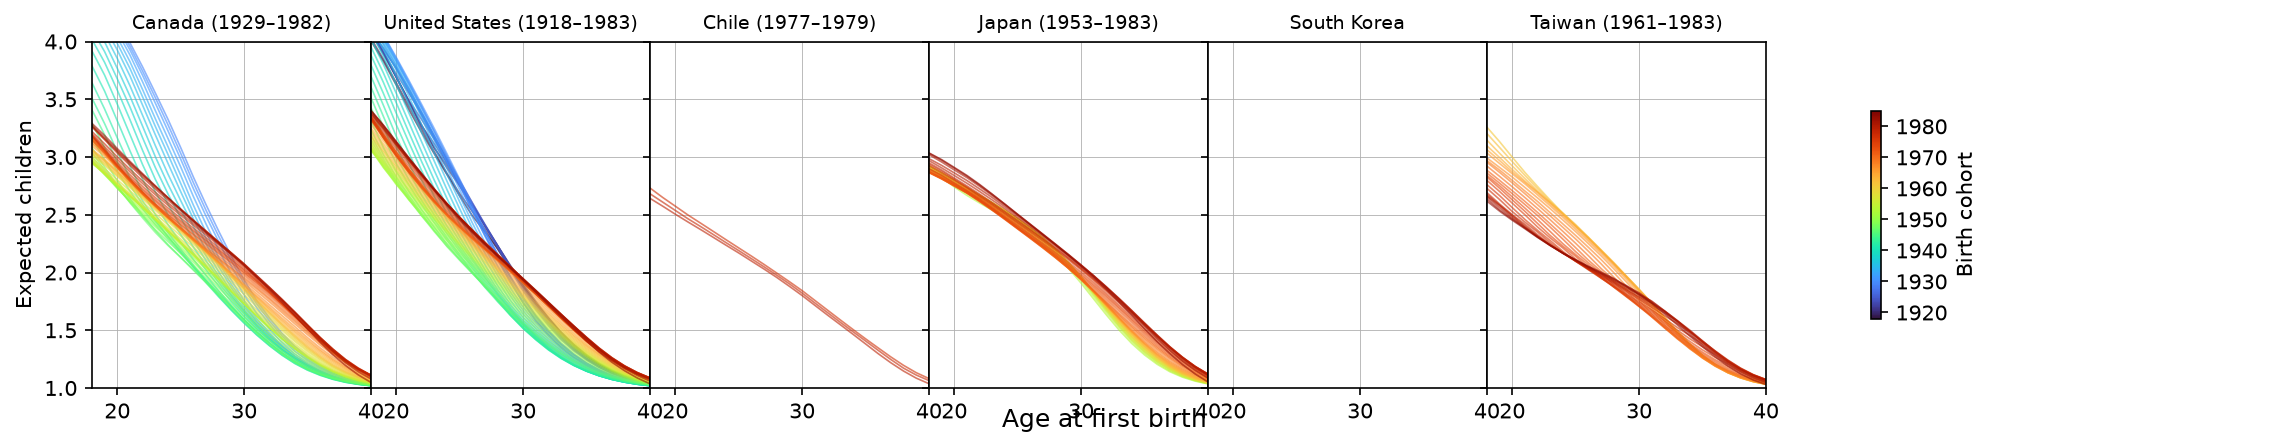
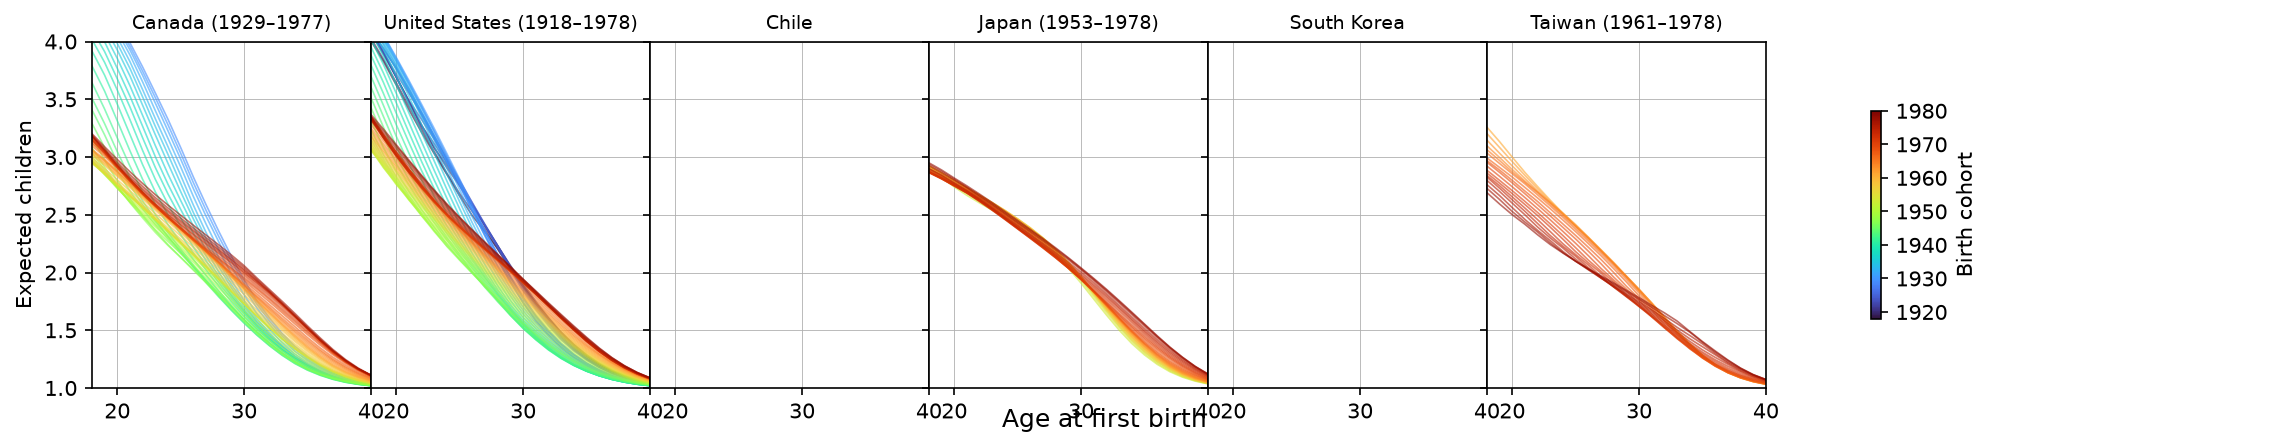
Raise MIN_COMPLETE_AGE from 40 to 45
At 40, q2x is still ~6% for a typical cohort (Sweden 1975), so cohorts
whose HFD tracking stops right at the threshold understate expected
children by ~0.03-0.09 (worse near the boundary itself). By 45 the
residual hazard is under 1%, closer to genuinely negligible, at the cost
of ~5 fewer years of cohort recency per country. Applied to both the HFD
recursion and its ONS/UK mirror, which used the same threshold for the
same reason.

diff --git a/HFD/scripts/births_per_mother_region_grid.py b/HFD/scripts/births_per_mother_region_grid.py
@@ -33,7 +33,7 @@ VALUE_5PLUS = 5.0
 # countries with only recently-started HFD coverage (Belgium, Croatia,
 # South Korea) show no lines: none of their tracked cohorts are old enough
 # yet for this page's terminal-age assumption to be safe.
-MIN_COMPLETE_AGE = 40
+MIN_COMPLETE_AGE = 45
 X_LIM = (18, 40)
 Y_LIM = (1.0, 4.0)
 

diff --git a/ONS/scripts/births_per_mother_uk_ons.py b/ONS/scripts/births_per_mother_uk_ons.py
@@ -40,7 +40,7 @@ VALUE_4PLUS = 4.0
 # the data to have caught up with yet. Only cohorts whose tracked hazards
 # reach this age are used at all (mirrors HFD/scripts/births_per_mother_region_grid.py's
 # MIN_COMPLETE_AGE for the same reason).
-MIN_COMPLETE_AGE = 40
+MIN_COMPLETE_AGE = 45
 
 
 def _load_table3_shares():

diff --git a/docs/hfd/births-per-mother.md b/docs/hfd/births-per-mother.md
@@ -12,7 +12,7 @@ Data downloaded on 2026-07-13.
 
 Backward recursion over each cohort's own parity-progression hazards (cft.txt: q2x-q5px),
 giving expected total children for a woman at parity 1 at each age. 5th-or-higher order
-approximated as exactly 5. Only cohorts whose tracked data reaches age 40 are shown.
+approximated as exactly 5. Only cohorts whose tracked data reaches age 45 are shown.
 ```
 
 ```{note}
